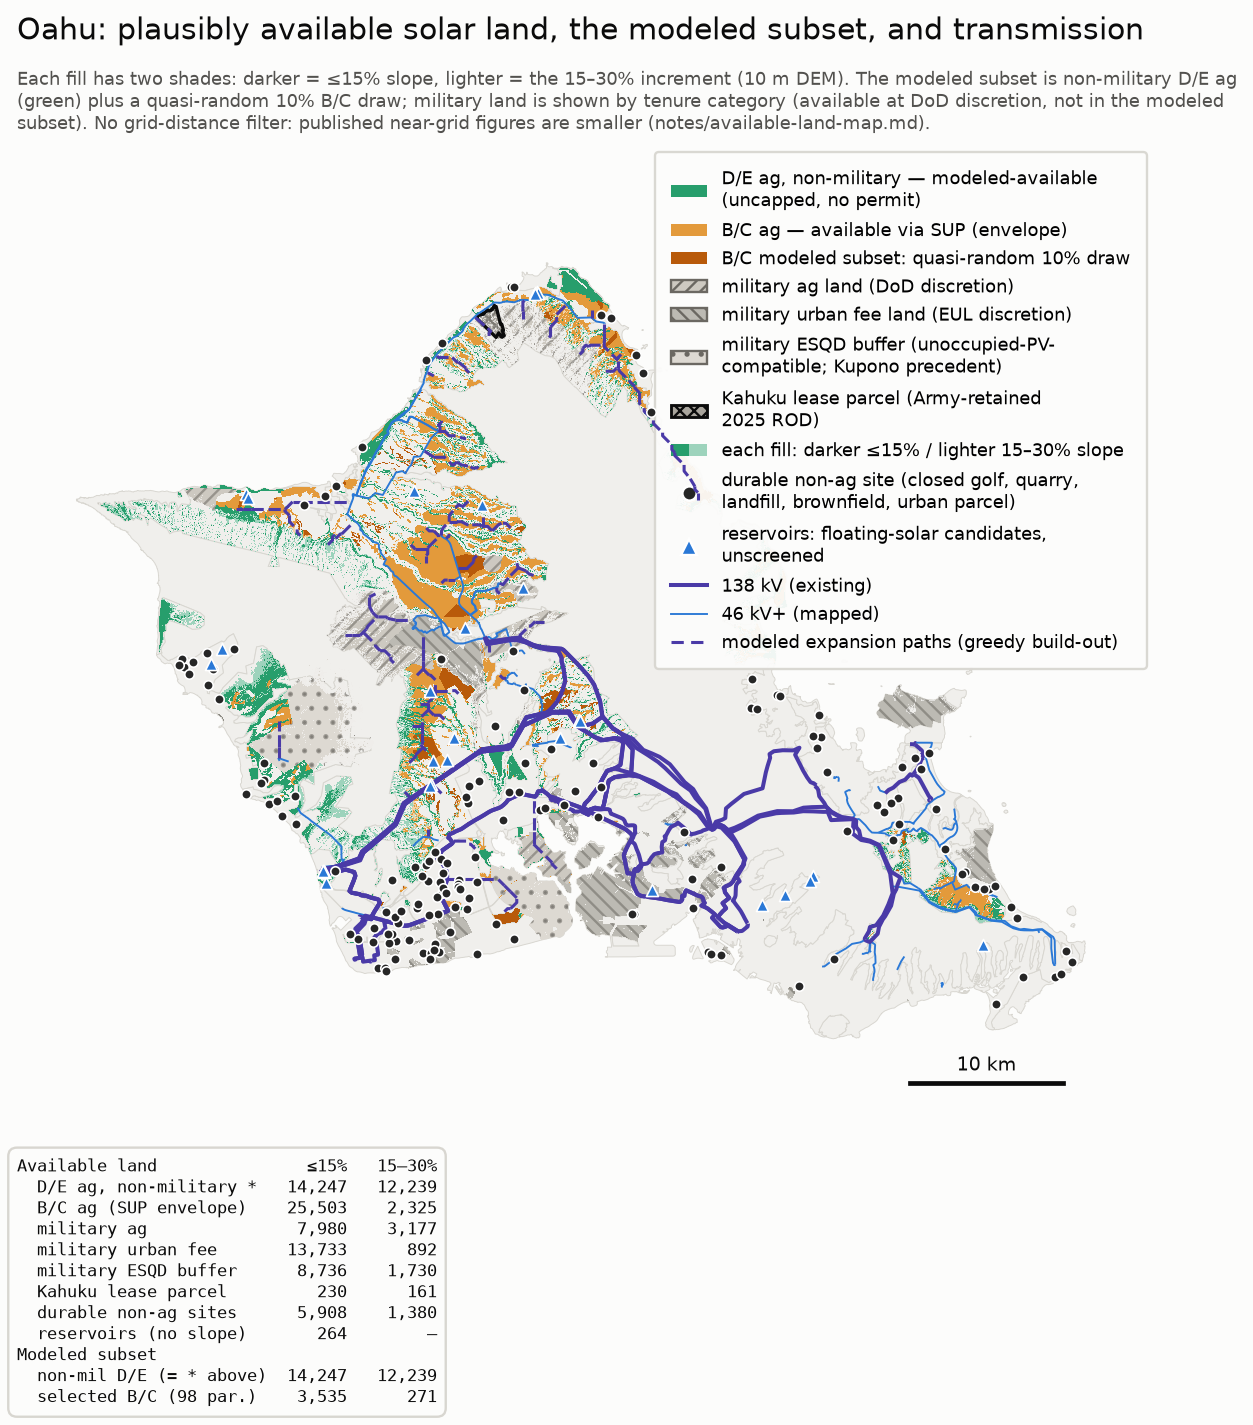
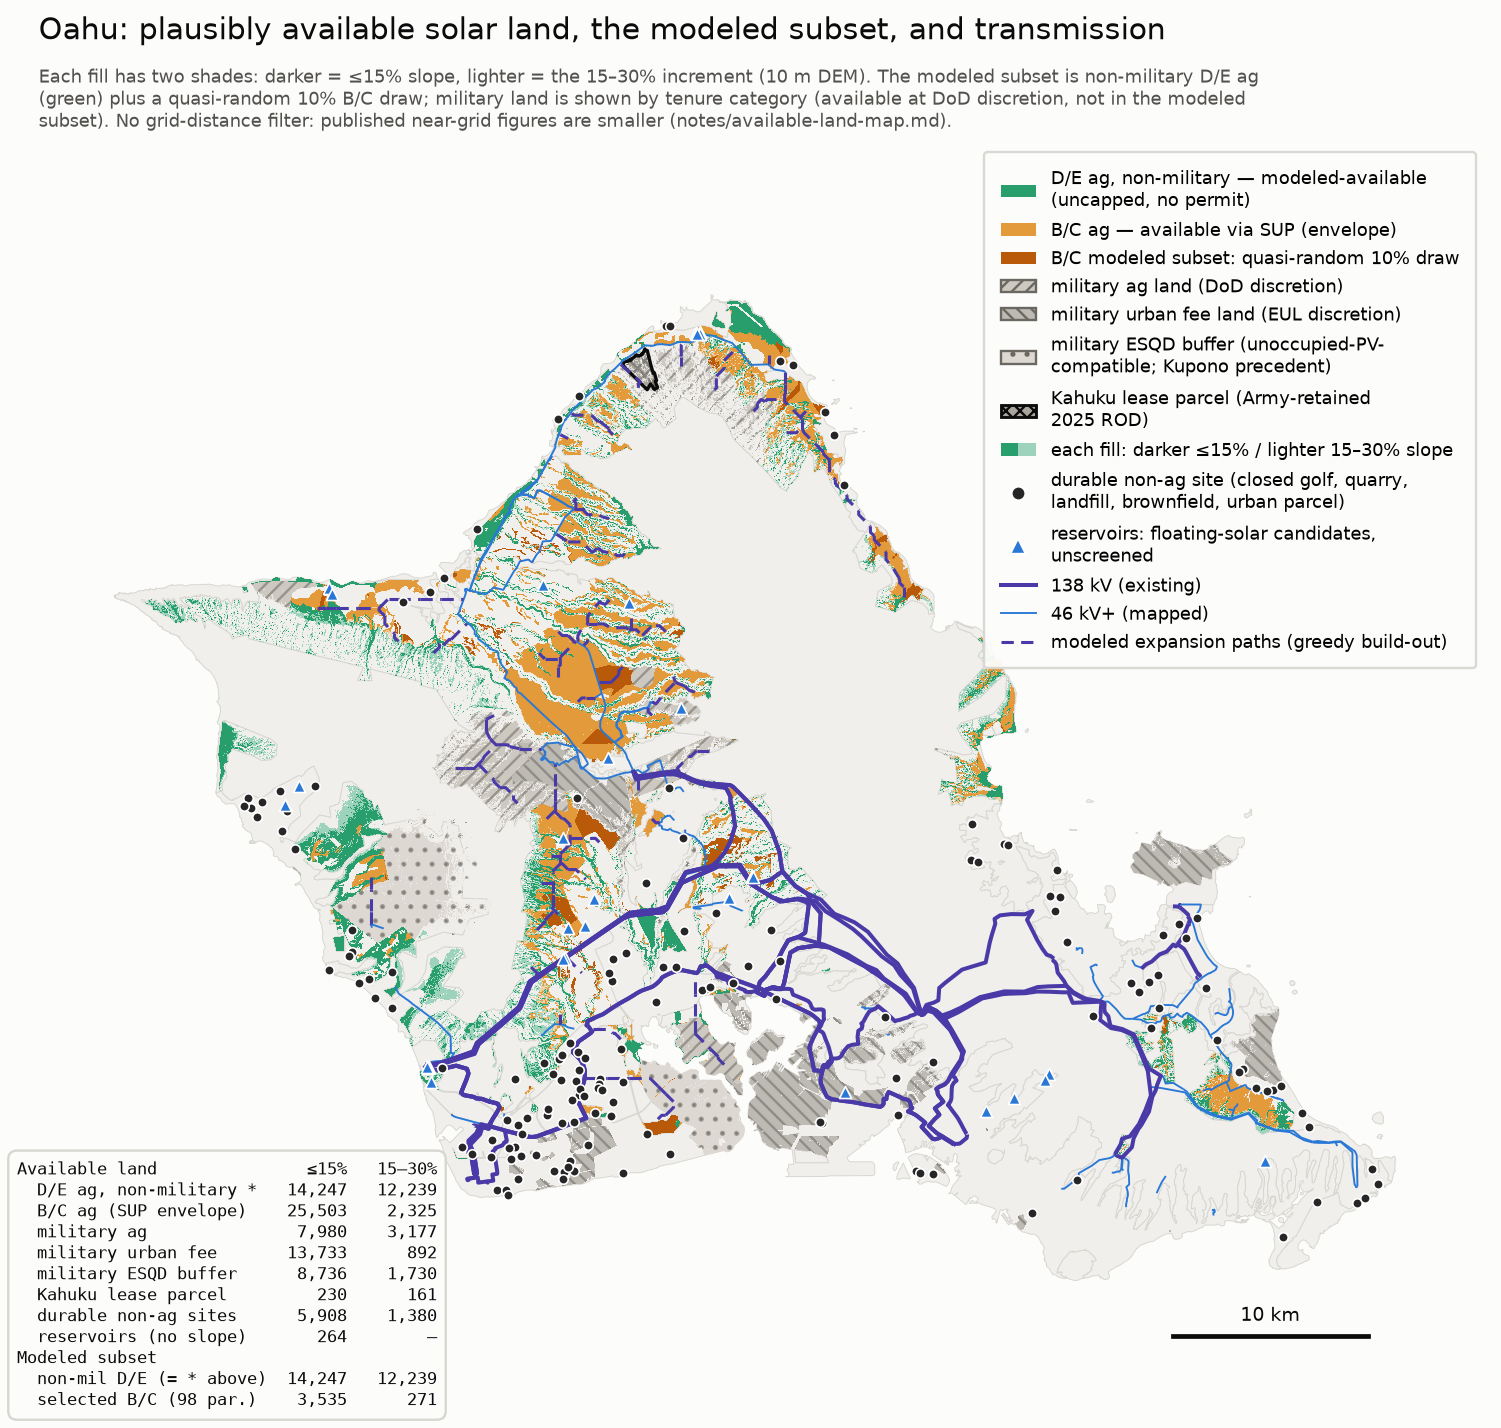
Map: nudge acreage tally back to bottom-left (small left+down offset)
Return the box to its original bottom-left spot with a small nudge (axes
coords -0.015, -0.005, va=bottom) so it clears the SW island corner without
the large bottom gap the below-map placement introduced. Restores the
normal figure height, so the top-right legend again sits clear over ocean.

Claude-Session: https://claude.ai/code/session_01XZWrBYW7S6F1sasvKVeE36

Changed region(s): [[0.0, 0.1235, 0.9649, 1.0], [0.0, 0.0, 0.9649, 0.0926], [0.6536, 0.8337, 0.6848, 0.8646]]

diff --git a/analysis/available_land_map.py b/analysis/available_land_map.py
@@ -511,8 +511,8 @@ def make_figure(band, tr, slud_o, masks, kah, site_pts, res, lines, exp,
         (f"  selected B/C ({len(sel)} par.)", f0(sel_total), f0(ac["sel_30"])),
     ]
     tab = "\n".join(f"{k:<25s}{a:>8s}{b:>9s}" for k, a, b in rows)
-    ax.text(0.0, -0.02, tab, transform=ax.transAxes, fontsize=7.4,
-            family="monospace", color=C_INK, va="top", ha="left",
+    ax.text(-0.015, -0.005, tab, transform=ax.transAxes, fontsize=7.4,
+            family="monospace", color=C_INK, va="bottom", ha="left",
             bbox=dict(boxstyle="round,pad=0.5", fc=SURFACE, ec=ISLAND_EC))
 
     ax.set_title("Oahu: plausibly available solar land, the modeled subset, "
